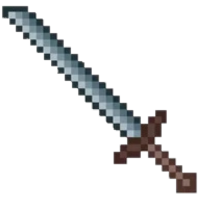
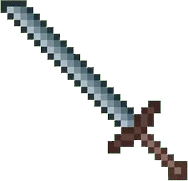
изменил characters.png изменил соответственно картину start menu

Changed region(s): [[0.0, 0.0, 0.6383, 0.5801], [0.5053, 0.5525, 1.0, 1.0]]

diff --git a/characters.py b/characters.py
@@ -7,10 +7,10 @@ def get_image_for_start_menu(number_characters):
 
 
 class Knight(sprite.Sprite):
-    frames_forward = [load_image('characters.jpeg').subsurface((0, i, 55.5, 55.5)) for i in range(0, 166, 55)]
-    frames_back = [load_image('characters.jpeg').subsurface((55.5, i, 55.5, 55.5)) for i in range(0, 166, 55)]
-    frames_left = [load_image('characters.jpeg').subsurface((111, i, 55.5, 55.5)) for i in range(0, 166, 55)]
-    frames_right = [load_image('characters.jpeg').subsurface((166.5, i, 55.5, 55.5)) for i in range(0, 166, 55)]
+    # frames_forward = [load_image('characters.jpeg').subsurface((0, i, 55.5, 55.5)) for i in range(0, 166, 55)]
+    # frames_back = [load_image('characters.jpeg').subsurface((55.5, i, 55.5, 55.5)) for i in range(0, 166, 55)]
+    # frames_left = [load_image('characters.jpeg').subsurface((111, i, 55.5, 55.5)) for i in range(0, 166, 55)]
+    # frames_right = [load_image('characters.jpeg').subsurface((166.5, i, 55.5, 55.5)) for i in range(0, 166, 55)]
 
     def __init(self):
         self.defualt_damage = 5

diff --git a/gui.py b/gui.py
@@ -3,9 +3,7 @@ import pygame
 import pygame_gui
 from pygame_gui.elements import *
 from constants import SIZE
-import os
-import sys
-
+from other_functions import load_image
 
 
 
@@ -44,9 +42,9 @@ class GuiManager:
                                     text='Выход', manager=self.manager)
 
         # Character menu
-        self.label_image_character = UILabel(Rect((650, 0, 150, 150)), text='')
-        self.image_character = pygame.image.load('image/test_pers.png').subsurface((53, 0, 52, 72))
-        self.image_character = pygame.transform.rotozoom(self.image_character, 0, 4)
+        self.label_image_character = UILabel(Rect((620, 50, 150, 400)), text='')
+        self.image_character = load_image('characters.png').subsurface((0, 0, 237, 224))
+        # self.image_character = pygame.transform.rotozoom(self.image_character, 0, 0.6)
         self.label_image_character.set_image(self.image_character)
         self.label_name_character = UILabel(Rect((690, 310, 100, 30)), text='Рыцарь')
 

diff --git a/other_functions.py b/other_functions.py
@@ -3,14 +3,20 @@ import os
 import pygame
 from constants import SIZE
 
-def load_image(name):
+def load_image(name, colorkey=None):
     fullname = os.path.join('image', name)
     # если файл не существует, то выходим
     if not os.path.isfile(fullname):
         print(f"Файл с изображением '{fullname}' не найден")
         sys.exit()
     image = pygame.image.load(fullname)
-
+    # if colorkey is not None:
+    #     image = image.convert()
+    #     if colorkey == -1:
+    #         colorkey = image.get_at((0, 0))
+    #     image.set_colorkey(colorkey)
+    # else:
+    #     image = image.convert_alpha()
     return image
 
 

diff --git a/main.py b/main.py
@@ -12,13 +12,7 @@ def main():
 
     fps = 60
 
-    spr = pygame.sprite.Sprite()
-    spr.image = pygame.transform.rotozoom(Knight.frames_forward[0], 0, 2)
-    spr.rect = spr.image.get_rect()
-    spr.rect.y = 30
-    spr.rect.x = 30
-    k = pygame.sprite.Group()
-    k.add(spr)
+
 
     running = True
     my_manager = GuiManager()
@@ -35,7 +29,6 @@ def main():
 
             my_manager.manager.process_events(event)
         screen.fill((0, 0, 0))
-        k.draw(screen)
 
         my_manager.manager.update(time_delta)
         my_manager.manager.draw_ui(screen)
